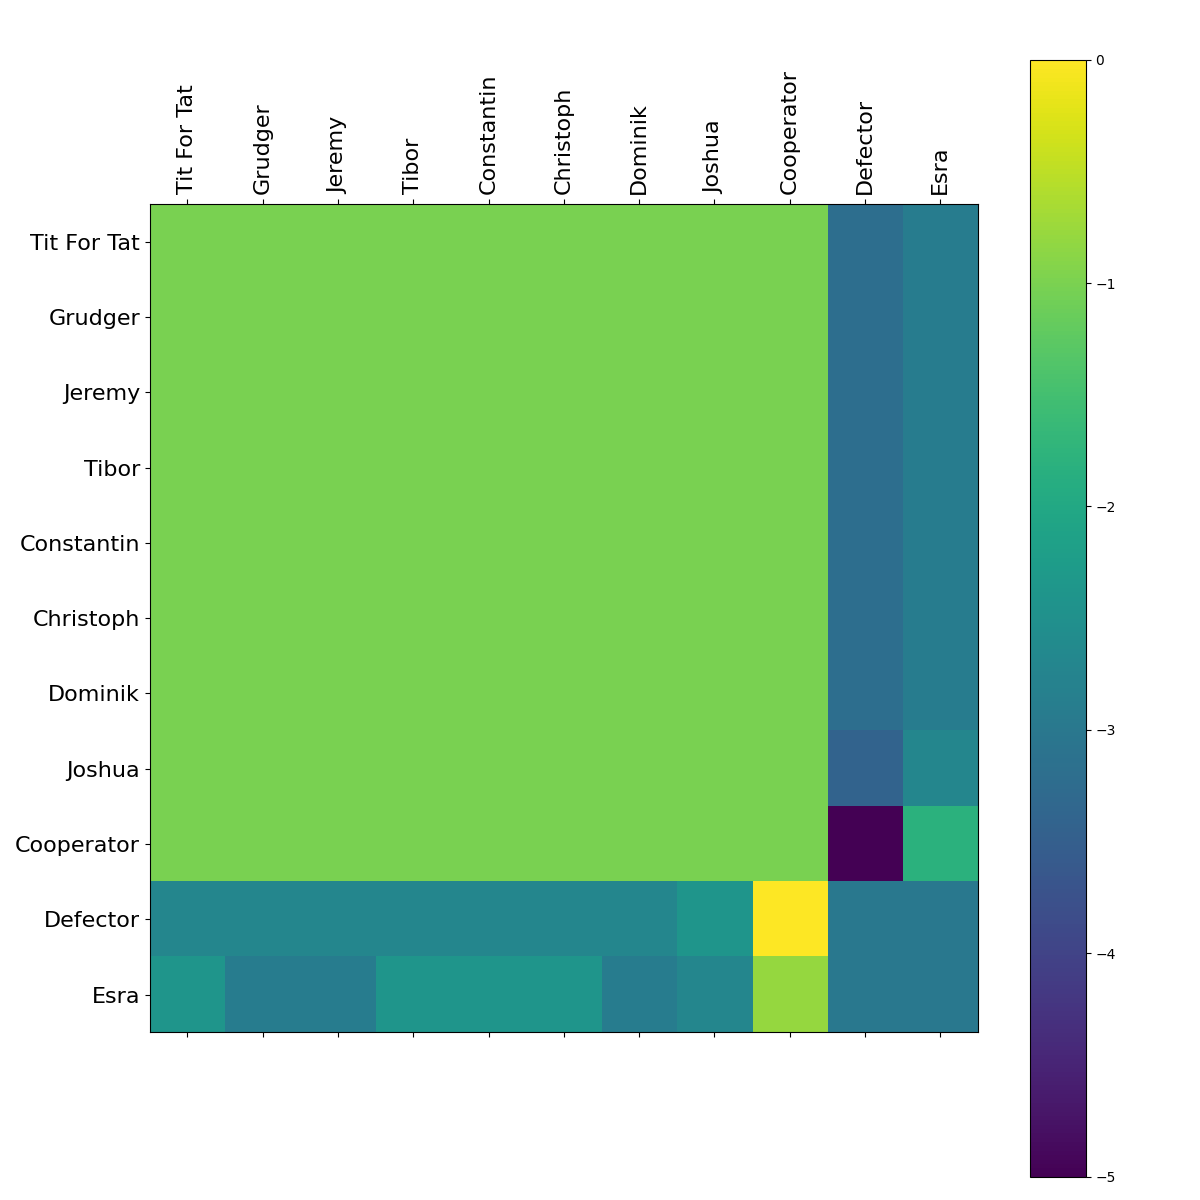
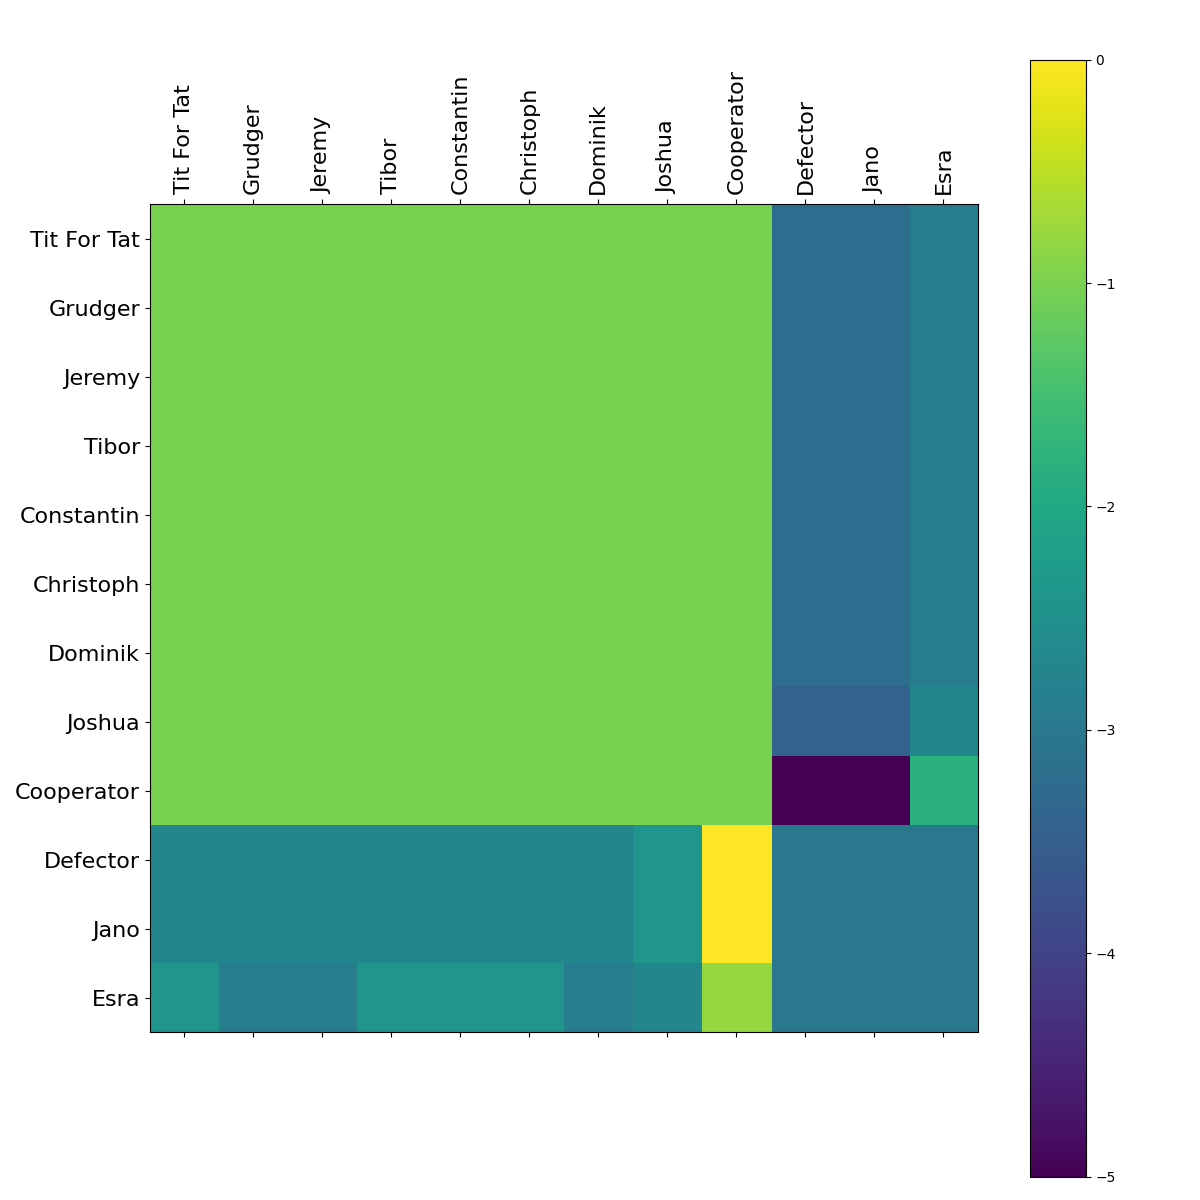
Update tournament

diff --git a/was-tournament/was_tournament.py b/was-tournament/was_tournament.py
@@ -6,6 +6,7 @@ from wasstrategies import christoph_strategy as pl3
 from wasstrategies import dominik_strategy as pl4
 from wasstrategies import esra_strategy as pl5
 from wasstrategies import joshua_strategy as pl6
+from wasstrategies import jano_strategy as pl7
 
 
 """Run an Axelrod Tournament (https://axelrod.readthedocs.io/en/stable/tutorials/new_to_game_theory_and_or_python
@@ -22,7 +23,8 @@ strategies = [
     pl3.Christoph(),
     pl4.Dominik(),
     pl5.Esra(),
-    pl6.Joshua()
+    pl6.Joshua(),
+    pl7.Jano()
 ]
 
 # Print the strategy players
